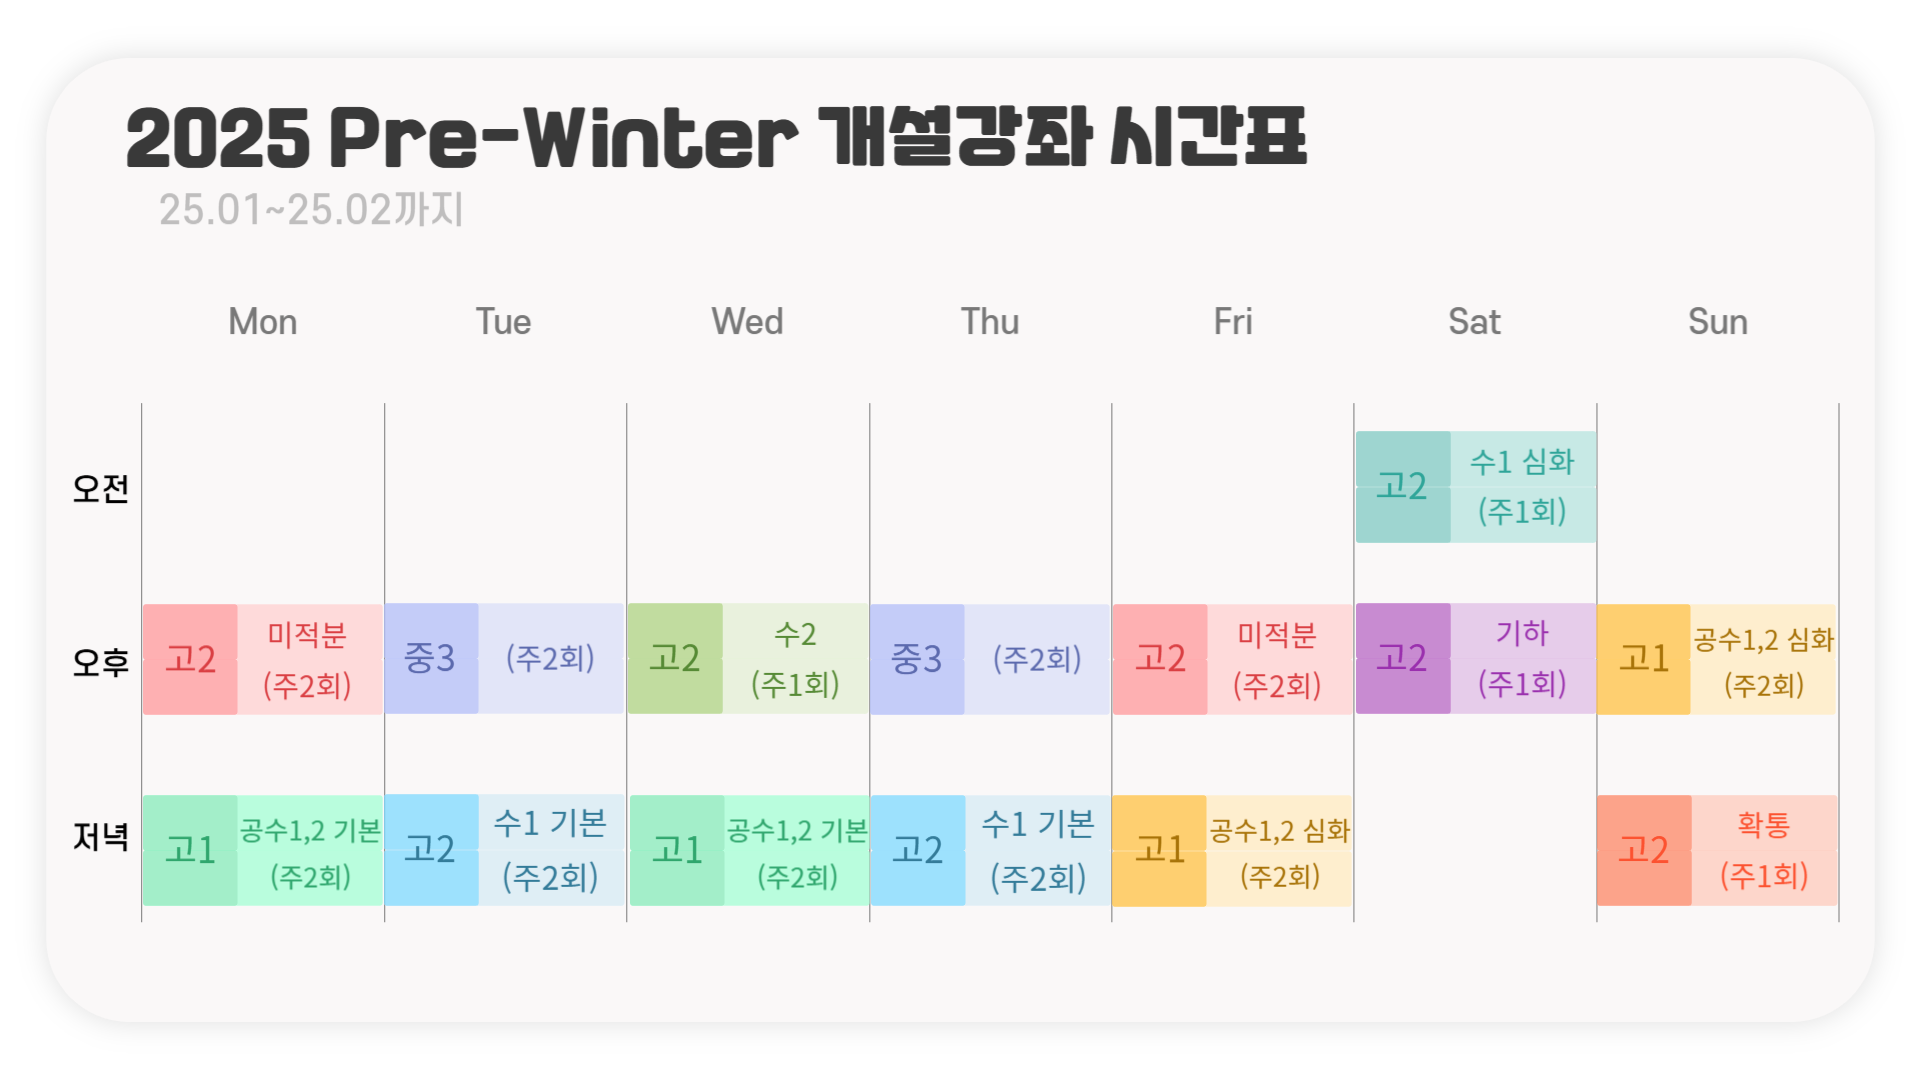
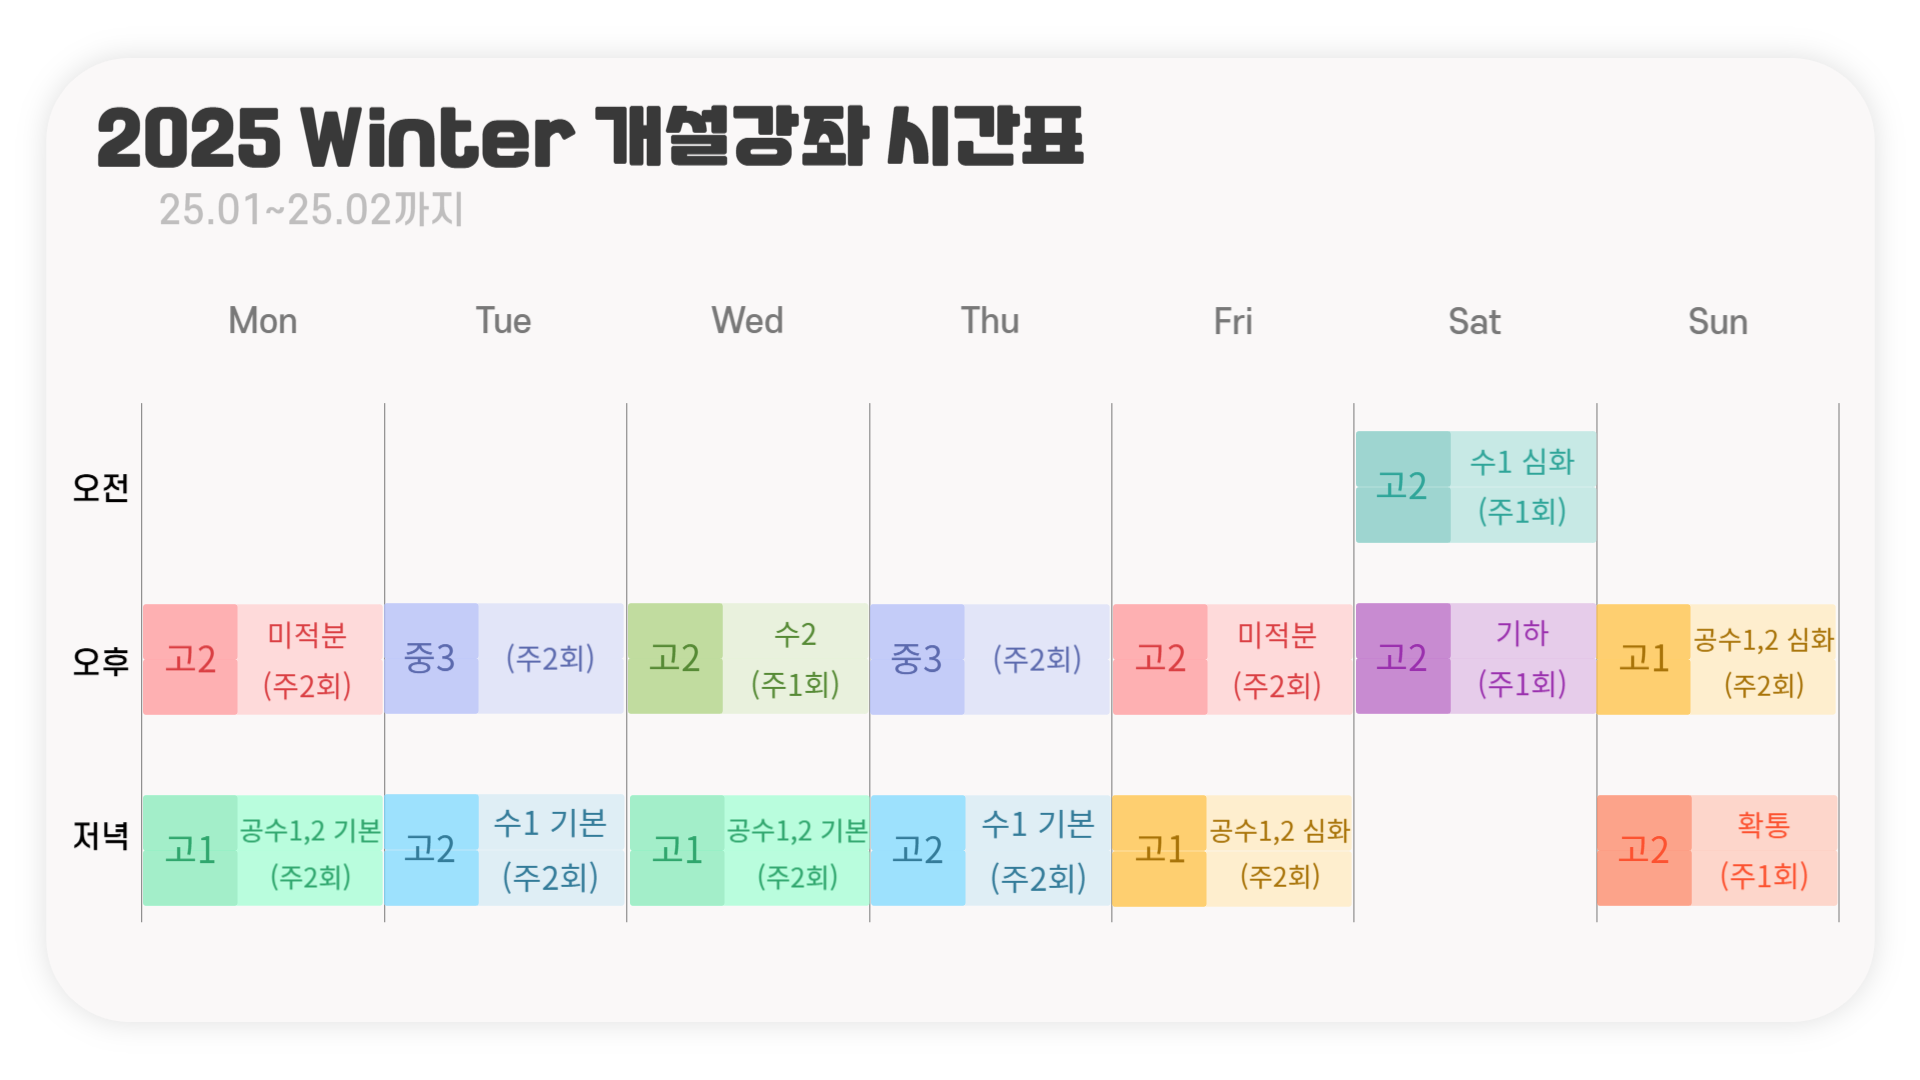
시간표 변경

diff --git a/src/main/resources/templates/main.html b/src/main/resources/templates/main.html
@@ -1,5 +1,5 @@
 <!DOCTYPE html>
-<html xmlns:th="http://www.thymeleaf.org" xmlns:sec="http://www.w3.org/1999/xhtml">
+<html xmlns:th="http://www.thymeleaf.org" xmlns:sec="http://www.w3.org/1999/xhtml" xmlns="http://www.w3.org/1999/html">
 <head>
     <meta charset="UTF-8">
     <meta name="viewport" content="width=device-width, initial-scale=1">
@@ -13,6 +13,7 @@
     <link href="/css/main.css" rel="stylesheet">
     <link rel="stylesheet" as="style" crossorigin href="https://cdn.jsdelivr.net/gh/orioncactus/pretendard@v1.3.9/dist/web/static/pretendard.min.css" />
 </head>
+
 <body>
 <!-- 네비게이션 바 포함 -->
 <div th:replace="~{nav :: navbar}"></div>
@@ -20,7 +21,7 @@
 <main>
     <div class="main-container" >
         <!-- 왼쪽 영역 -->
-        <div class="left-section" sec:authorize="isAuthenticated() and hasAuthority('ROLE_VISITOR')">
+        <div class="left-section" sec:authorize="isAnonymous() or hasAuthority('ROLE_VISITOR')">
             <div class="profile-card">
                 <img src="/img/profile.jpg" class="profile-image">
                 <h3>문수빈T</h3>
@@ -32,7 +33,7 @@
 
         <!-- 오른쪽 영역 -->
         <div class="right-section">
-            <div class="review-container" sec:authorize="isAuthenticated() and hasAuthority('ROLE_VISITOR')">
+            <div class="review-container" sec:authorize="isAnonymous() or hasAuthority('ROLE_VISITOR')">
                 <h3>수강생 리뷰<h6>&nbsp&nbsp&nbsp&nbsp*실제 수강생 설문을 통한 리뷰에요😁 스크롤하여 다른 리뷰도 빠르게 확인이 가능해요😊</h6></h3>
                 <h11>&nbsp&nbsp&nbsp&nbsp**모바일에서는 표시가 안될 수 있어요🥹  pc에서 확인해주세요👌</h11>
                 <div class="review-wrapper">
@@ -361,16 +362,24 @@
         </div>-->
             <div class="ranking-section">
                 <h3 align="center">👑학생 랭킹👑</h3>
-                <h6>-TOP 10</h6>
-                <ul>
-                    <!-- 서버에서 전달받은 rankings 리스트를 출력 -->
+                <h6>-숙제 부문 TOP 1</h6>
+                <h6 style="text-style:bold">김땡땡</h6>
+                <h6>-질문 부문 TOP 1</h6>
+                <h6 style="text-style:bold">박땡땡</h6>
+                <h6>-시험 부문 TOP 1</h6>
+                <h6 style="text-style:bold">문땡땡</h6>
+
+                <!--<ul>
+                    &lt;!&ndash; 서버에서 전달받은 rankings 리스트를 출력 &ndash;&gt;
                     <th:block th:each="ranking, iterStat : ${rankings}">
                         <li th:text="${iterStat.index + 1} + '위. ' + ${ranking['nickName']}"></li>
                     </th:block>
-                </ul>
+                </ul>-->
             </div>
         </div>
     </div>
+
+
 </main>
 
 <script>
